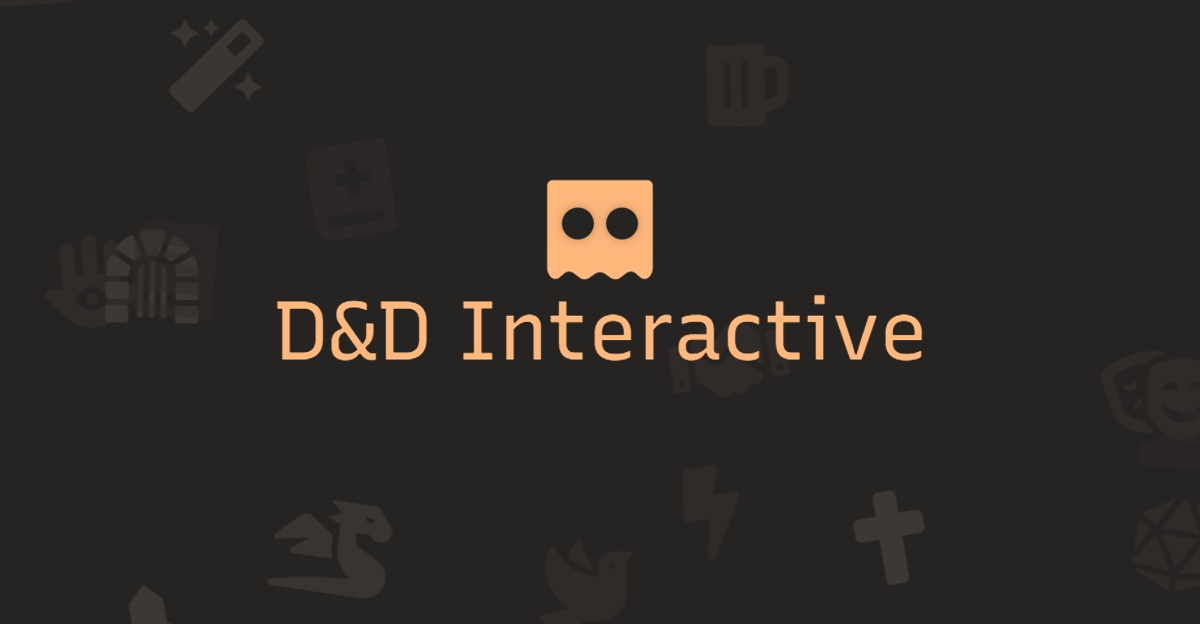
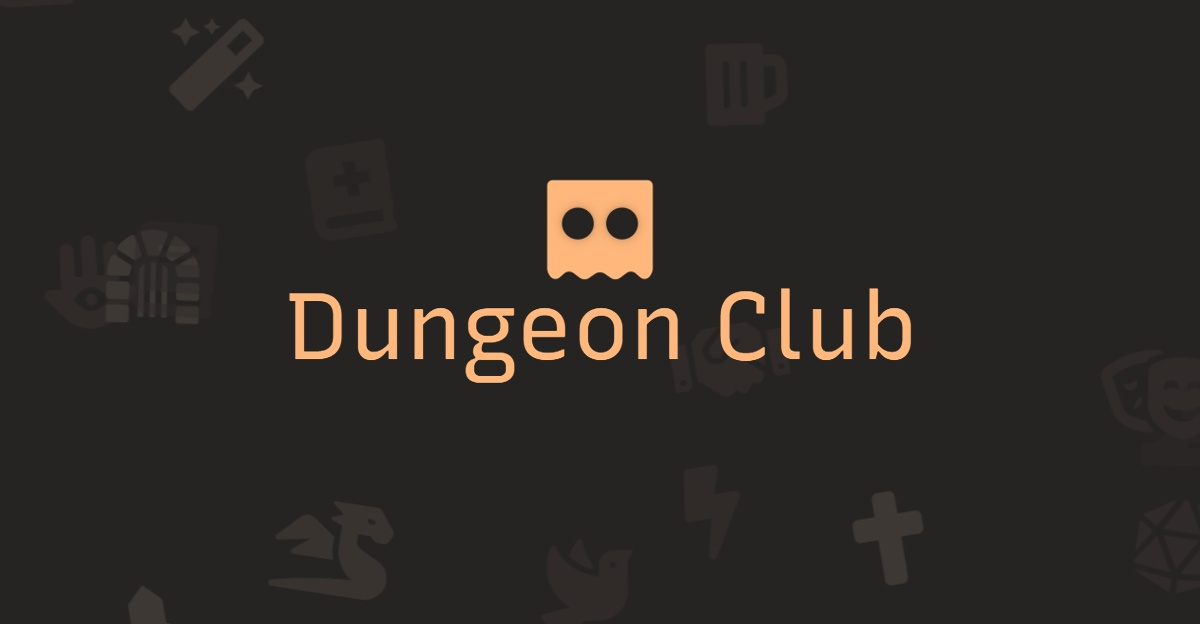
renamed the whole thing

Changed region(s): [[0.2158, 0.4567, 0.7708, 0.6394]]

diff --git a/web/privacy.html b/web/privacy.html
@@ -16,14 +16,14 @@
 	<header>
 		<a href="/dnd" class="title">
 			<div><img src="images/icon.png"></div>
-			<h1>D&D Interactive</h1>
+			<h1>Dungeon Club</h1>
 		</a>
 	</header>
 
 	<div>
 		<h1>Privacy Policy</h1>
 		<p>
-			D&D Interactive takes data protection seriously and respects your privacy. In this privacy policy, we
+			Dungeon Club takes data protection seriously and respects your privacy. In this privacy policy, we
 			provide information about what data we collect as part of our Internet offer at
 			<a href="https://theoretically.online/dnd">theoretically.online/dnd</a>
 			and how we process this data. With regard to the terminology used, e.g. "personal data" or its "processing",
@@ -42,13 +42,13 @@
 		<h3>Categories of persons affected by the processing:</h3>
 		<ul>
 			<li>Customers / interested parties</li>
-			<li>Visitors and users of D&D Interactive</li>
+			<li>Visitors and users of Dungeon Club</li>
 		</ul>
 		<p>In this privacy policy, we also refer to all data subjects collectively as "users".</p>
 
 		<h3>What do we use your data for?</h3>
 		<ul>
-			<li>Provision of D&D Interactive, its contents and functions</li>
+			<li>Provision of Dungeon Club, its contents and functions</li>
 			<li>Provision of services</li>
 			<li>Answering enquiries and communicating with users</li>
 			<li>Marketing and market research</li>
@@ -100,7 +100,7 @@
 		<p>
 			If you consent or ask us to, we will share your information (campaign invite, name, nickname, email address,
 			profile picture) as described at the time of consent with the user you are inviting to participate in your
-			D&D Interactive campaign.
+			Dungeon Club campaign.
 		</p>
 		<p>
 			Likewise, when you message other users during your Campaign as a part of the Campaign you are playing and
@@ -174,11 +174,11 @@
 
 		<h3>Messages and Profile Data</h3>
 		<p>
-			Within D&D Interactive you may be able to display certain profile information, share certain details, engage
+			Within Dungeon Club you may be able to display certain profile information, share certain details, engage
 			with others, exchange knowledge and insights, messages and view relevant content. Content and data is not
 			publicly viewable. You have choices about the information on your profile. You don’t have to provide
 			additional information on your profile or in your message; however, some information helps you to get more
-			from your game. It’s your choice whether to include sensitive information on your profile or in your message
+			from your game. It's your choice whether to include sensitive information on your profile or in your message
 			and to make that information public. Please do not post, share or disclose or add personal data to your
 			profile or in your message that you would not want to be available. The legal basis for the storage is
 			Article 6 lit. f) GDPR.
@@ -214,7 +214,7 @@
 
 		<h3>Protection of minors</h3>
 		<p>
-			D&D Interactive and our services are intended exclusively for adults. We do not knowingly collect
+			Dungeon Club and our services are intended exclusively for adults. We do not knowingly collect
 			age-identifying information, nor do we knowingly collect personal information from children under the age of
 			13. We remind all users under the age of 13 not to disclose or provide any personally identifiable
 			information through our service.

diff --git a/web/index.html b/web/index.html
@@ -6,8 +6,8 @@
 	<meta http-equiv="X-UA-Compatible" content="IE=edge">
 	<meta name="viewport" content="width=device-width, initial-scale=1.0">
 
-	<meta property="og:title" content="D&D Interactive" />
-	<meta property="twitter:title" content="D&D Interactive" />
+	<meta property="og:title" content="Dungeon Club" />
+	<meta property="twitter:title" content="Dungeon Club" />
 
 	<meta property="og:type" content="website" />
 	<meta property="og:image" content="https://theoretically.online/dnd/images/banner.jpg" />
@@ -22,7 +22,7 @@
 	<link rel="stylesheet" href="style/style.css">
 	<link rel="shortcut icon" type="image/png" sizes="128x128" href="images/icon.png">
 	<link rel="icon" type="image/png" sizes="32x32" href="images/icon32.png">
-	<title>D&D Interactive</title>
+	<title>Dungeon Club</title>
 	<script defer src="main.dart.js"></script>
 	<script src="https://kit.fontawesome.com/a3de05bb60.js" crossorigin="anonymous"></script>
 </head>
@@ -31,7 +31,7 @@
 	<header>
 		<a href="/" class="title">
 			<div><img src="images/icon.png"></div>
-			<h1>D&D Interactive</h1>
+			<h1>Dungeon Club</h1>
 		</a>
 
 		<span>
@@ -46,7 +46,7 @@
 			<span id="loginText">You're now logged in!</span>
 
 			<div id="loginTab" class="hidden">
-				<h1>Sign in to D&D Interactive</h1>
+				<h1>Sign in to Dungeon Club</h1>
 
 				<p>
 					An account gives you the possibility to create and lead your own campaigns.
@@ -599,7 +599,7 @@
 				You're invited to join this session! Enter your name so the Dungeon Master can assign you the right
 				character.
 				<br><br>
-				(This name will be forwarded to the DM and is not saved anywhere but your machine.)
+				(This name will be forwarded to the GM and is not saved anywhere but your machine.)
 			</p>
 
 			<div>
@@ -744,8 +744,7 @@
 					<table>
 						<tr>
 							<td>Email address</td>
-							<td><input type="email" class="email" autocomplete="email"
-									placeholder="e.g. sweetlilly93@hotmail.com..."></td>
+							<td><input type="email" class="email" autocomplete="email" placeholder="Email..."></td>
 						</tr>
 						<tr>
 							<td colspan="2">
@@ -807,8 +806,7 @@
 					<table>
 						<tr>
 							<td>Email address</td>
-							<td><input type="email" class="email" autocomplete="email"
-									placeholder="e.g. sweetlilly93@hotmail.com..."></td>
+							<td><input type="email" class="email" autocomplete="email" placeholder="Email..."></td>
 						</tr>
 						<tr>
 							<td colspan="2">

diff --git a/bin/mail.dart b/bin/mail.dart
@@ -56,7 +56,7 @@ Future<bool> sendPendingFeedback() async {
 
 Future<bool> sendVerifyCreationMail(String email, String code) {
   return sendMailWithCode(
-    subject: 'Activate your D&D Interactive Account',
+    subject: 'Activate your Dungeon Club Account',
     email: email,
     layoutFile: 'activate.html',
     code: code,
@@ -82,7 +82,7 @@ Future<bool> sendMailWithCode({
   content = content.replaceAll('\$CODE', code);
 
   final message = Message()
-    ..from = Address(_mailAddress, 'D&D Interactive')
+    ..from = Address(_mailAddress, 'Dungeon Club')
     ..recipients.add(email)
     ..subject = subject
     ..html = content
@@ -97,7 +97,7 @@ Future<bool> _sendFeedbackMail() async {
   pendingFeedback.sort((a, b) => a.type.compareTo(b.type));
 
   final message = Message()
-    ..from = Address(_mailAddress, 'D&D Interactive')
+    ..from = Address(_mailAddress, 'Dungeon Club')
     ..recipients.add(_mailAddress)
     ..subject = 'Feedback'
     ..text = '${pendingFeedback.length} new feedback letters:\n\n' +

diff --git a/bin/connections.dart b/bin/connections.dart
@@ -218,7 +218,7 @@ class Connection extends Socket {
           game.notify(
             a.GAME_KICK,
             {
-              'reason': '''Your DM updated the campaign settings.
+              'reason': '''Your GM updated the campaign settings.
                 To correctly reflect all changes, please join again.''',
             },
             allScenes: true,
@@ -254,7 +254,7 @@ class Connection extends Socket {
           int id;
           if (meta.owner != account) {
             if (!meta.isLoaded || !game.dmOnline) {
-              return 'Your DM is not online!';
+              return 'Your GM is not online!';
             }
 
             id = await game.dm.request(a.GAME_JOIN_REQUEST, {'name': name});

diff --git a/web/dart/session/session.dart b/web/dart/session/session.dart
@@ -52,7 +52,7 @@ class Session extends Game {
   }
 
   String getPlayerColor(int player, [int charCount]) {
-    if (player == null) return '#ffffff'; // DM color
+    if (player == null) return '#ffffff'; // GM color
 
     var h = 330 * player / (charCount ?? characters.length);
     var l = 0.7 - 0.05 * cos(player * pi);
@@ -101,7 +101,7 @@ class Session extends Game {
       }
     } else {
       if (!join) {
-        _dmDisconnectedDialog = ConstantDialog('Your DM Disconnected')
+        _dmDisconnectedDialog = ConstantDialog('Your GM Disconnected')
           ..addParagraph('''
               If they happen to reconnect anytime soon,
               you'll return to the game.''')

diff --git a/web/dart/session/measuring.dart b/web/dart/session/measuring.dart
@@ -100,7 +100,7 @@ void handleMeasuringEvent(Uint8List bytes) {
 
 abstract class Measuring {
   static Measuring create(int type, Point origin, int player) {
-    if (player == 255) player = null; // Reset DM color
+    if (player == 255) player = null; // Reset GM color
 
     switch (type) {
       case MEASURING_PATH:
@@ -188,7 +188,9 @@ class MeasuringPath extends Measuring {
   MeasuringPath(Point origin, int pc) : super(origin, svg.GElement(), pc) {
     _e.setAttribute(
         'transform', 'translate(${origin.x % 1.0}, ${origin.y % 1.0})');
-    _e..append(path)..append(lastE);
+    _e
+      ..append(path)
+      ..append(lastE);
     addPoint(origin);
   }
 

diff --git a/web/dart/session/log.dart b/web/dart/session/log.dart
@@ -36,7 +36,7 @@ void _submitChat() {
 }
 
 void _performChat(int pcId, String msg) {
-  var name = pcId == null ? 'DM' : user.session.characters[pcId].name;
+  var name = pcId == null ? 'GM' : user.session.characters[pcId].name;
 
   gameLog('<span class="dice">$name</span> $msg');
 }
@@ -75,7 +75,7 @@ SpanElement gameLog(String s, {bool mine = false}) {
 void logInviteLink(Session session) {
   var tooltip = SpanElement()..text = 'Copied to Clipboard!';
 
-  var line = gameLog('''Hello, DM!<br>Players can join at
+  var line = gameLog('''Hello, GM!<br>Players can join at
     <b>${session.inviteLink}</b>.''')..classes.add('clickable');
 
   line

diff --git a/mail/reset.html b/mail/reset.html
@@ -8,7 +8,7 @@
 							bgcolor="#ffffff">
 							<tr>
 								<td align="center" style="padding-top: 16px;">
-									<img alt="D&D Interactive" src="cid:logo">
+									<img alt="Dungeon Club" src="cid:logo">
 								</td>
 							</tr>
 							<tr>
@@ -21,7 +21,7 @@
 							</tr>
 							<tr>
 								<td style="padding: 20px 0 0 0;">
-									It seems like you forgot the password to your <b>D&D Interactive</b> account.
+									It seems like you forgot the password to your <b>Dungeon Club</b> account.
 									To reset it, please enter this code on the website:
 								</td>
 							</tr>

diff --git a/mail/activate.html b/mail/activate.html
@@ -8,7 +8,7 @@
 							bgcolor="#ffffff">
 							<tr>
 								<td align="center" style="padding-top: 16px">
-									<img alt="D&D Interactive" src="cid:logo">
+									<img alt="Dungeon Club" src="cid:logo">
 								</td>
 							</tr>
 							<tr>
@@ -21,7 +21,7 @@
 							</tr>
 							<tr>
 								<td style="padding: 20px 0 0 0;">
-									Your <b>D&D Interactive</b> account is on its way to existence!
+									Your <b>Dungeon Club</b> account is on its way to existence!
 									To activate it, please enter this code on the website:
 								</td>
 							</tr>

diff --git a/web/dart/session/roll_dice.dart b/web/dart/session/roll_dice.dart
@@ -82,7 +82,7 @@ void onDiceRoll(Map<String, dynamic> json) {
 
   var name = mine
       ? 'You'
-      : (initiator == null ? 'DM' : user.session.characters[initiator].name);
+      : (initiator == null ? 'GM' : user.session.characters[initiator].name);
 
   var results = rolls.map((r) => _resultString(sides, r)).join(' + ');
 

diff --git a/web/main.dart b/web/main.dart
@@ -15,7 +15,7 @@ final _interaction = Completer();
 Future get requireFirstInteraction => _interaction.future;
 
 final user = User();
-const appName = 'D&D Interactive';
+const appName = 'Dungeon Club';
 String _homeUrl;
 String get homeUrl => _homeUrl;
 

diff --git a/README.md b/README.md
@@ -1,10 +1,8 @@
-# D&D Interactive <img align="right" src="web/images/icon.png" alt="Icon" height=96 />
+# Dungeon Club - Virtual Tabletop <img align="right" src="web/images/icon.png" alt="Icon" height=96 />
 
-**Dungeons & Dragons** is an immersive pen-and-paper RPG. Like every tabletop game, you'll surely need a table for everyone to gather around.
-Now, if your group of adventurous travelers and travelling adventurers is scattered all across the country and you don't have the chance to meet up a lot,
-virtual tabletops can be of great help to carry out a game of D&D.
+An online platform to gather and play Dungeons & Dragons, Call of Cthulu, Pathfinder and more.
 
-[**D&D Interactive**](https://theoretically.online/dnd) strives to be the most user-friendly online session tool, with a high standard of functionality range and design. Feel free to contribute!
+[**Dungeon Club**](https://theoretically.online/dnd) strives to be the most user-friendly virtual tabletop, with a high standard of functionality and design. Feel free to contribute!
 
 
 ## Running the Code Yourself
@@ -15,7 +13,7 @@ After downloading Dart, start out by running `dart pub get` in the root director
 
 
 ### 1. Backend
-The server/backend of D&D Interactive can be started by running `dart bin/server.dart` (or simply pressing `F5` in Visual Studio Code).
+The server/backend of Dungeon Club can be started by running `dart bin/server.dart` (or simply pressing `F5` in Visual Studio Code).
 
 Make sure to fill out the `mail/gmail_credentials` file with your Gmail address in the first line and your Gmail password in the second.
 (This method might be replaced with an OAuth approach in the future.)
@@ -43,4 +41,4 @@ Pressing `Shift`+`R` in your browser reloads the stylesheet without having to re
 
 <br>
 
-#### You should now be able to see your own version of D&D Interactive up and running at [http://localhost:8080](http://localhost:8080). Yay!
+#### You should now be able to see your own version of Dungeon Club up and running at [http://localhost:8080](http://localhost:8080). Yay!
